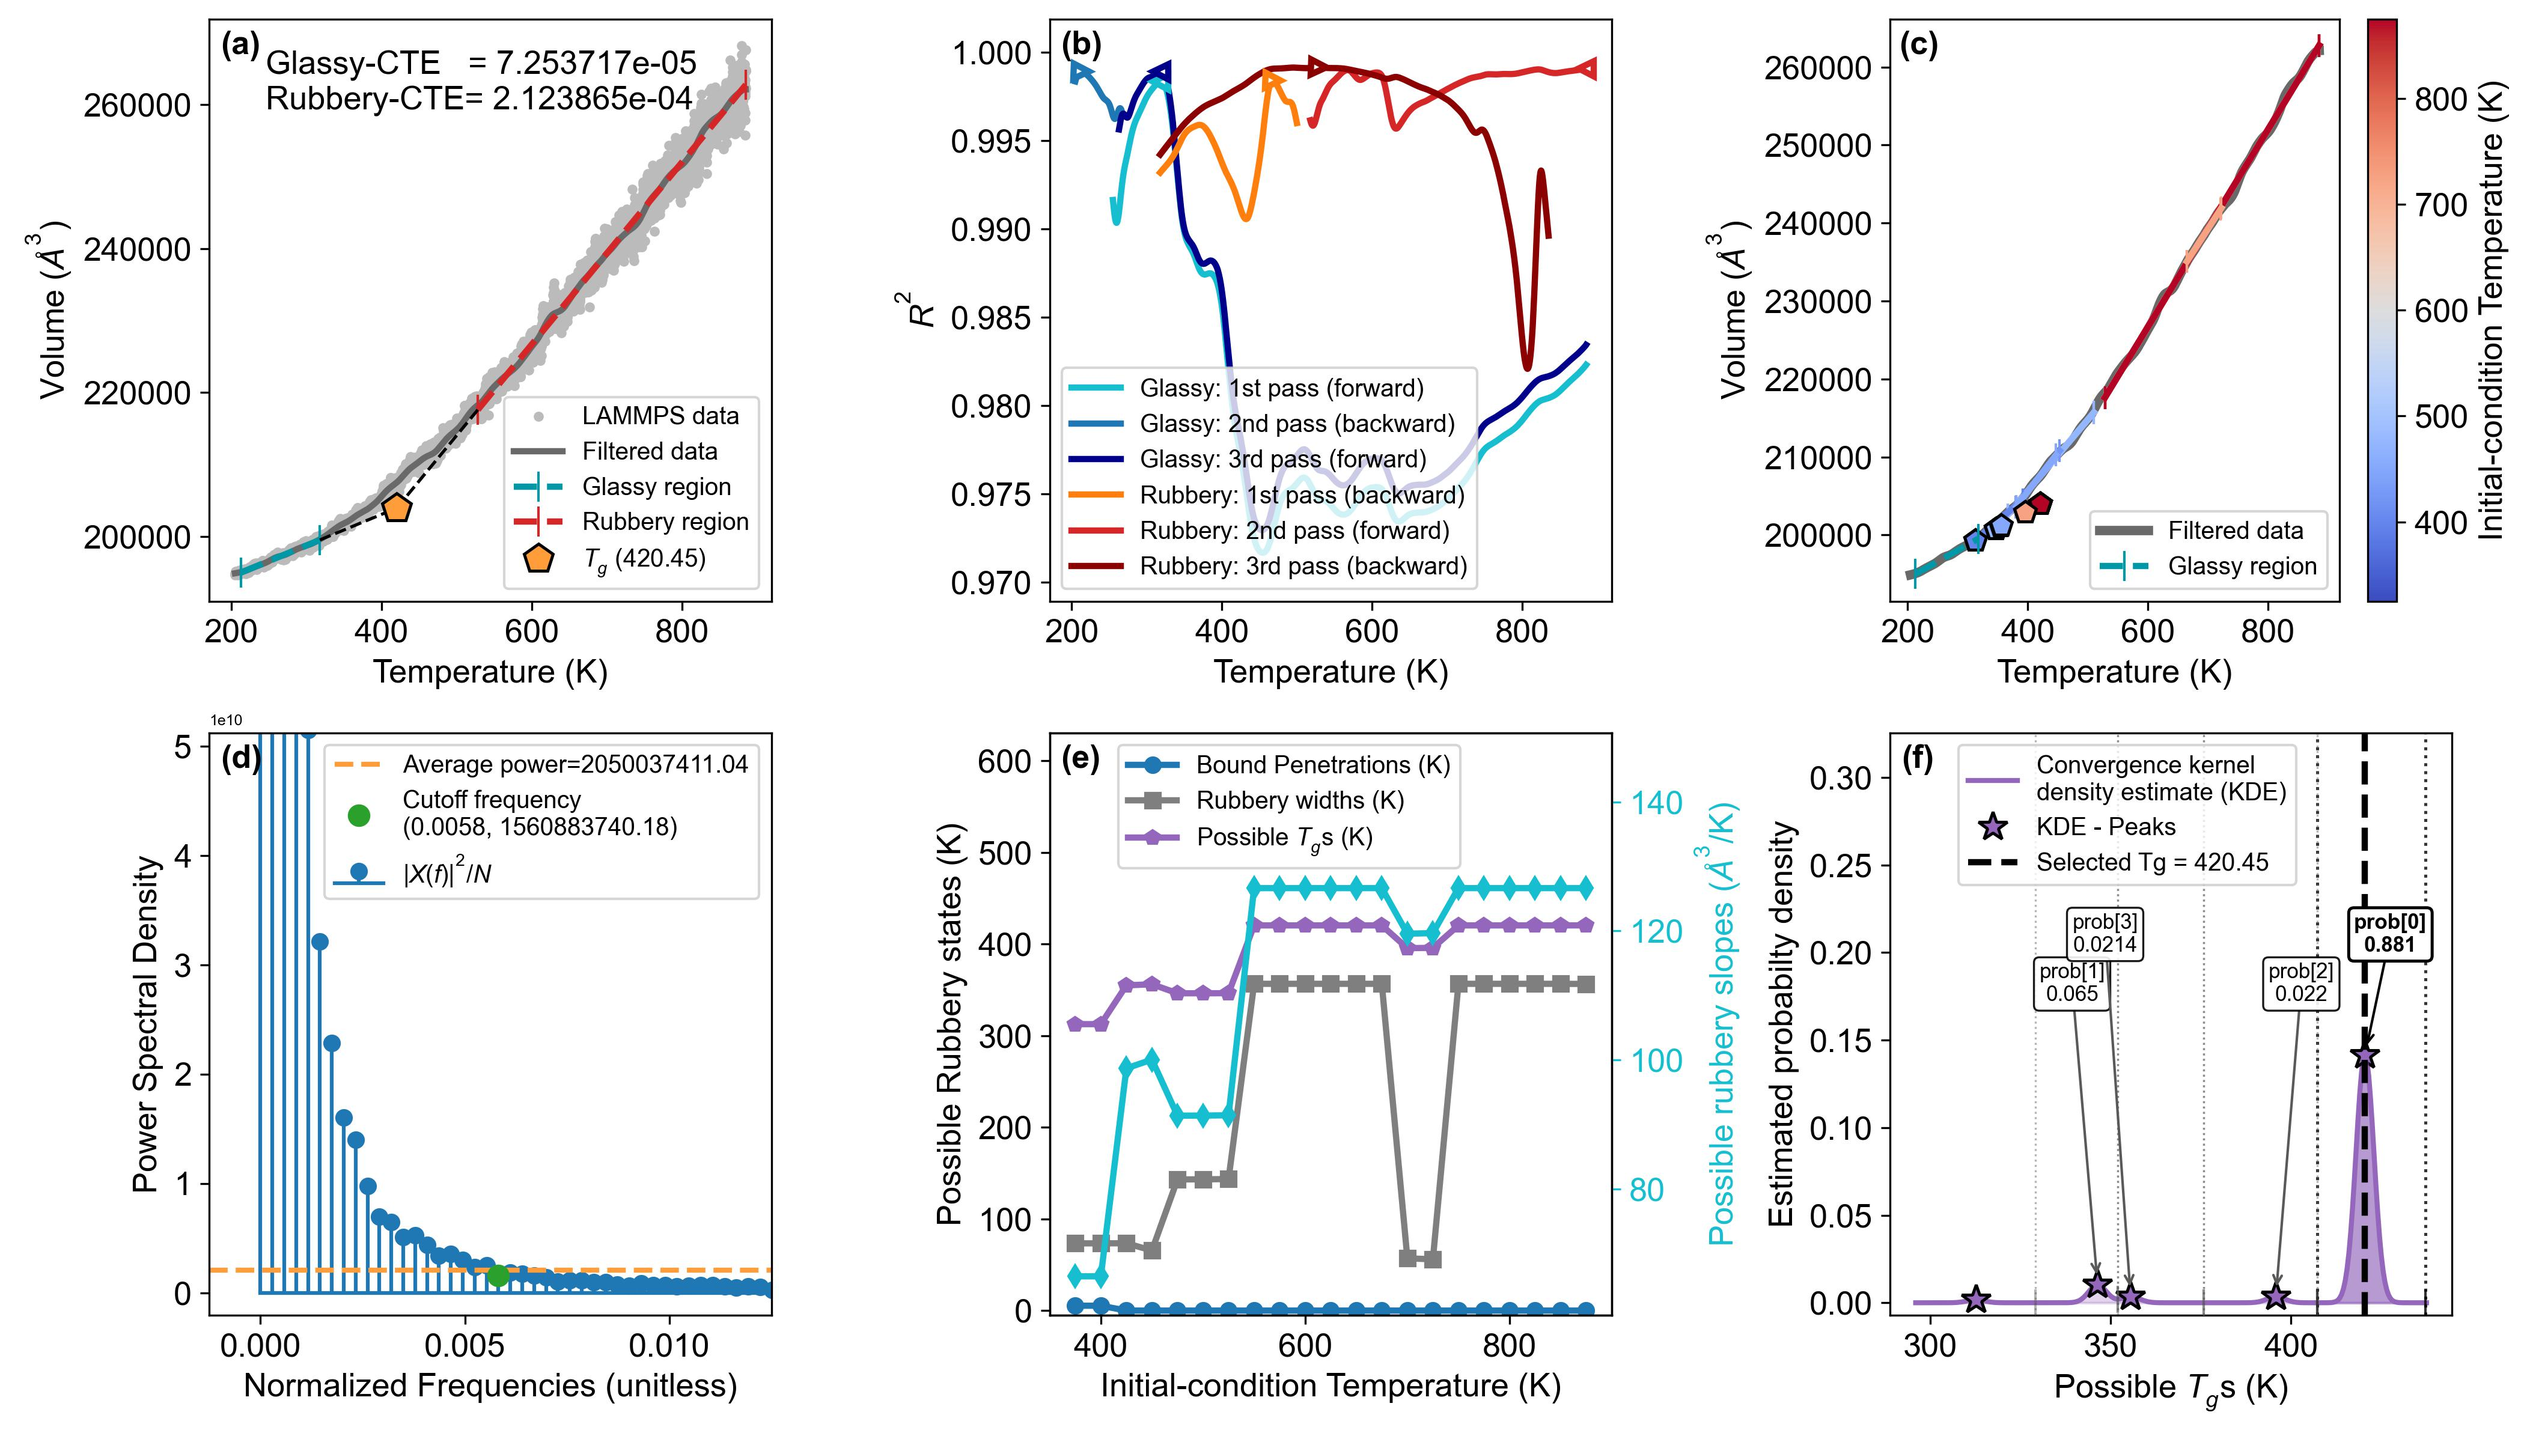
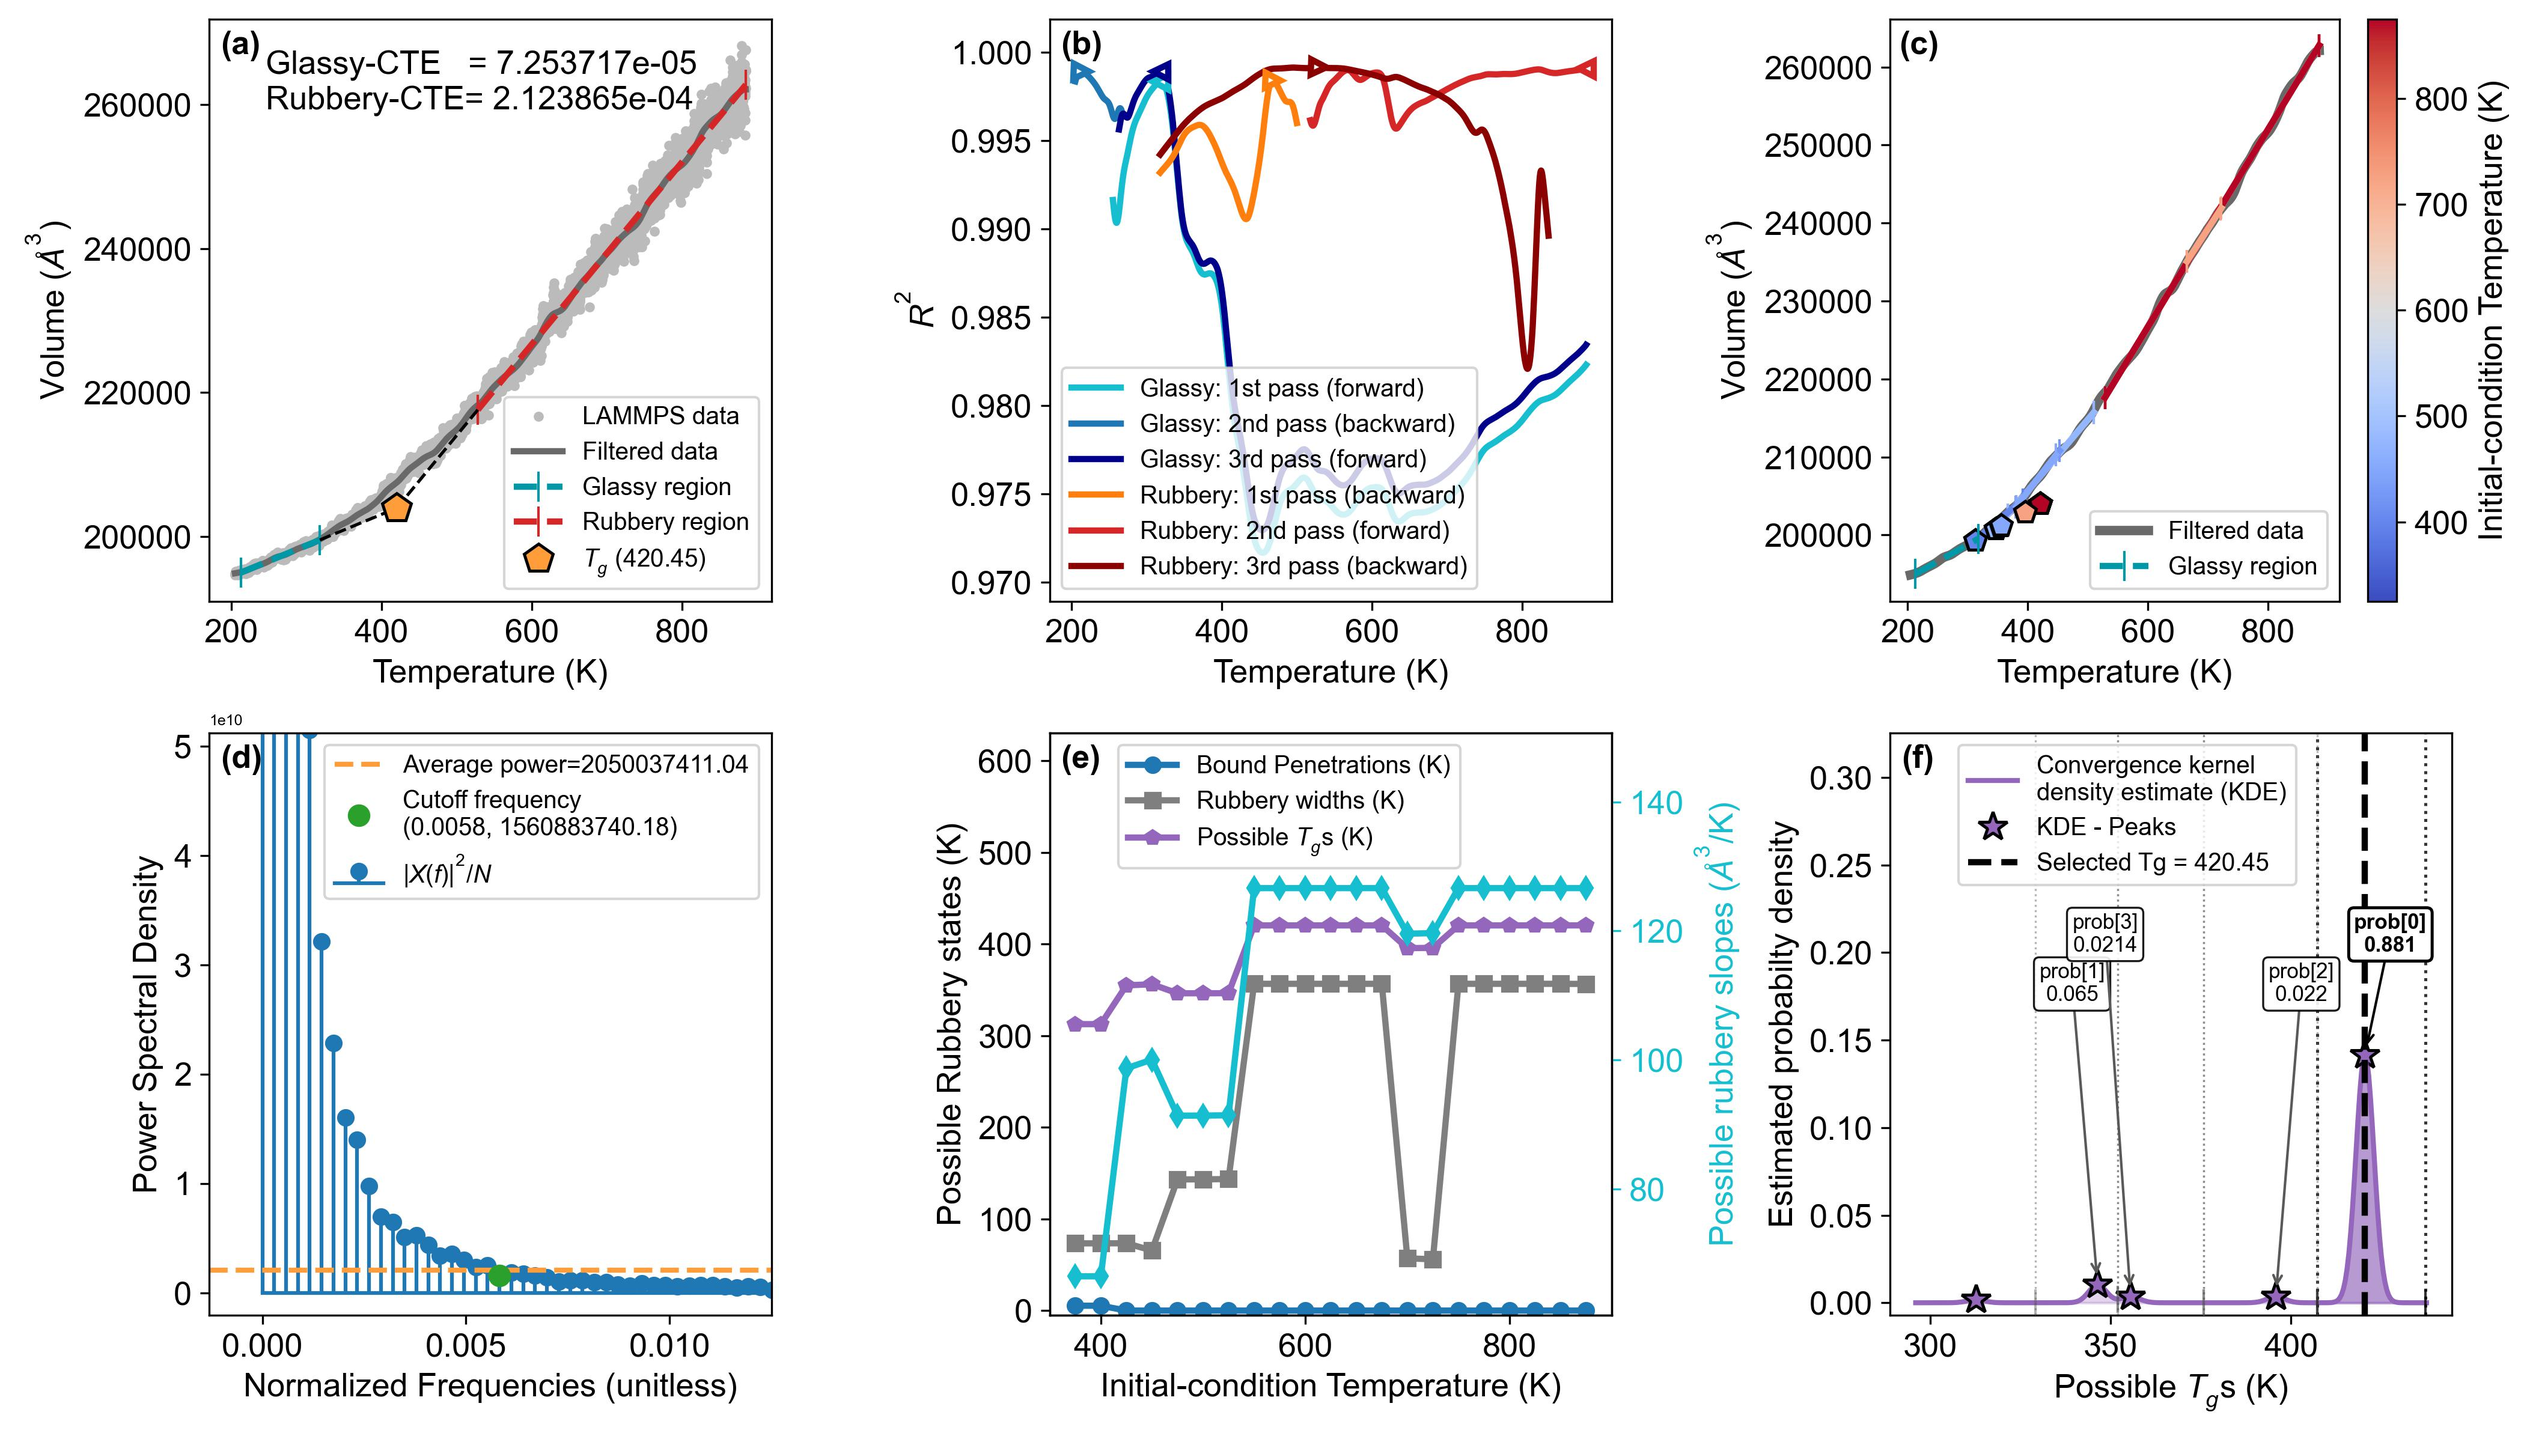
RFR-thermal version 27October2026

Changed region(s): [[0.0936, 0.5, 0.2183, 0.9375]]

diff --git a/example0.py b/example0.py
@@ -493,7 +493,7 @@ if __name__ == "__main__":
         ax4.legend(loc='upper right', bbox_to_anchor=(1, 1), fancybox=True, ncol=1, fontsize=legend_fs_scale*fs)
         ax4.tick_params(axis='both', which='major', labelsize=fs)
         
-        ax4.set_xlim((-0.00125, 0.0125)) # Comment/uncomment for xlimits
+        ax4.set_xlim((-0.0013, 0.0125)) # Comment/uncomment for xlimits
         ax4.set_ylim((-1*mean_psd, 25*mean_psd)) # Comment/uncomment for xlimits
         
         if plot_orientation == 'wide':
